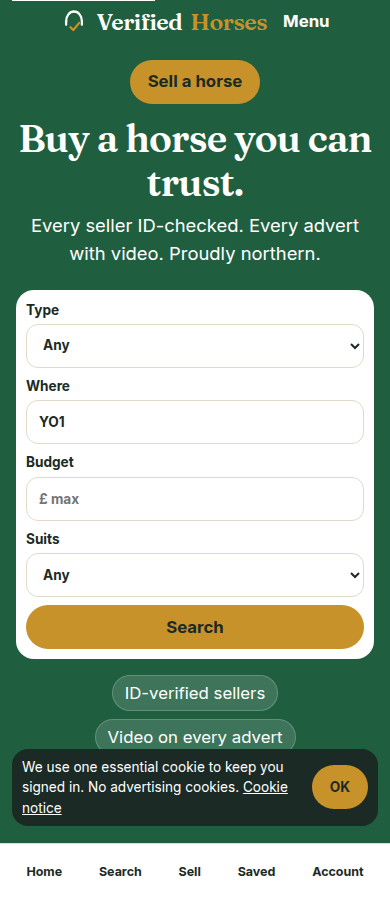
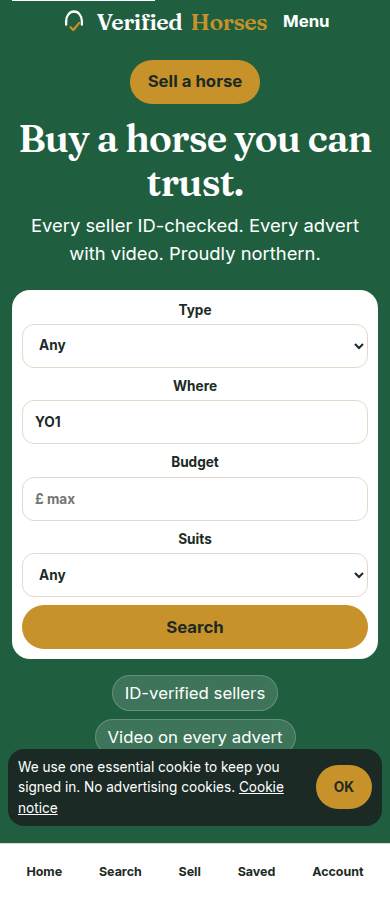
Centre the phone layout below the medium breakpoint.
Headings, cards, prices, the seller panel, footer and calls to action sit in the middle on a phone. Form fields, tables and the Terms and Privacy paragraphs stay left-aligned so they remain easy to read, and the desktop layout is unchanged.

diff --git a/app/globals.css b/app/globals.css
@@ -339,6 +339,103 @@ textarea { min-height: 140px; }
 footer a { color: #fff; }
 footer .muted { color: #d5ddd8; }
 
+/* Phones. Desktop rules above are unchanged. md is 768px. */
+@media (max-width: 767px) {
+  html, body { max-width: 100%; overflow-x: clip; }
+  .wrap { width: min(1120px, calc(100% - 24px)); }
+  img, video, iframe, table, pre { max-width: 100%; }
+  pre { white-space: pre-wrap; }
+  table { text-align: left; }
+
+  .hero,
+  .section-head,
+  .card-body,
+  .price-panel,
+  .auth-card,
+  .notice,
+  .example,
+  .steps article,
+  .county-grid .panel,
+  footer,
+  footer h2,
+  footer p {
+    text-align: center;
+  }
+
+  h1, h2, h3,
+  .wrap > h1, .wrap > h2, .wrap > h3,
+  .prose > h1, .prose > h2, .prose > h3,
+  .section-head,
+  .hero h1, .hero p {
+    text-align: center;
+  }
+
+  .prose { margin-inline: auto; text-align: center; }
+  .prose > p, .hero p, .notice, .notice p, .example, .auth-card > p,
+  .wrap > p, .grid-2 h2, .grid-2 > div > p, .price-panel, .price-panel p {
+    text-align: center;
+  }
+
+  .prose.legal > p,
+  .prose.legal li,
+  .prose.legal td,
+  .prose.legal th {
+    text-align: left;
+  }
+  .prose.legal > h1,
+  .prose.legal > h2,
+  .prose.legal > h3 { text-align: center; }
+
+  .prose ul, .prose ol, ul, ol {
+    width: fit-content;
+    max-width: 100%;
+    margin-inline: auto;
+    text-align: left;
+  }
+  .prose .doc-list, .prose .plain-list, .prose .safe,
+  .doc-list, .plain-list, .safe, .good-grid {
+    width: 100%;
+  }
+  .doc-list li, .good-grid div, .plain-list li { text-align: center; }
+  .safe li, .prose.legal li { text-align: left; }
+
+  .hero .chips,
+  .chips,
+  .card-body .row,
+  .facts,
+  .section-head,
+  .progress,
+  .price-panel .row,
+  footer .grid-3 {
+    justify-content: center;
+    justify-items: center;
+    text-align: center;
+  }
+  .section-head { flex-direction: column; align-items: center; }
+  .progress { justify-content: center; }
+
+  form .row, .filters .row, label.row {
+    justify-content: flex-start;
+    text-align: left;
+  }
+
+  .stack > label, .filters > label, .search-bar label { text-align: center; }
+  input, select, textarea, .search-bar, .filters { text-align: left; }
+
+  main .button.gold,
+  main button.gold,
+  main a.button,
+  .mobile-bar .button {
+    width: 100%;
+    max-width: 28rem;
+    margin-inline: auto;
+  }
+  .chips .button, .row .button, .site-header .button { width: auto; margin-inline: 0; }
+  .mobile-bar .button { max-width: none; }
+
+  .cookie { left: 8px; right: 8px; width: auto; text-align: left; }
+}
+
 @media (prefers-reduced-motion: reduce) {
   html { scroll-behavior: auto; }
   * { animation: none !important; transition: none !important; }

diff --git a/app/legal/privacy/page.tsx b/app/legal/privacy/page.tsx
@@ -5,7 +5,7 @@ export const metadata = { title: "Privacy" };
 export default function PrivacyPage() {
   return (
     <article className="section">
-      <div className="wrap prose">
+      <div className="wrap prose legal">
         <h1>Privacy notice</h1>
         <p>This notice explains how {legalEntity()} handles personal information under the UK GDPR and the Data Protection Act 2018. The contact for privacy questions is {contactEmail()}.</p>
         <h2>What we hold</h2>

diff --git a/app/legal/terms/page.tsx b/app/legal/terms/page.tsx
@@ -6,7 +6,7 @@ export const metadata = { title: "Terms" };
 export default function TermsPage() {
   return (
     <article className="section">
-      <div className="wrap prose">
+      <div className="wrap prose legal">
         <h1>Terms of use</h1>
         <p>These terms are written in plain English for people using VerifiedHorses. They are the rules of the site. They are not a tailored legal opinion on your own sale.</p>
         <h2>The service</h2>
